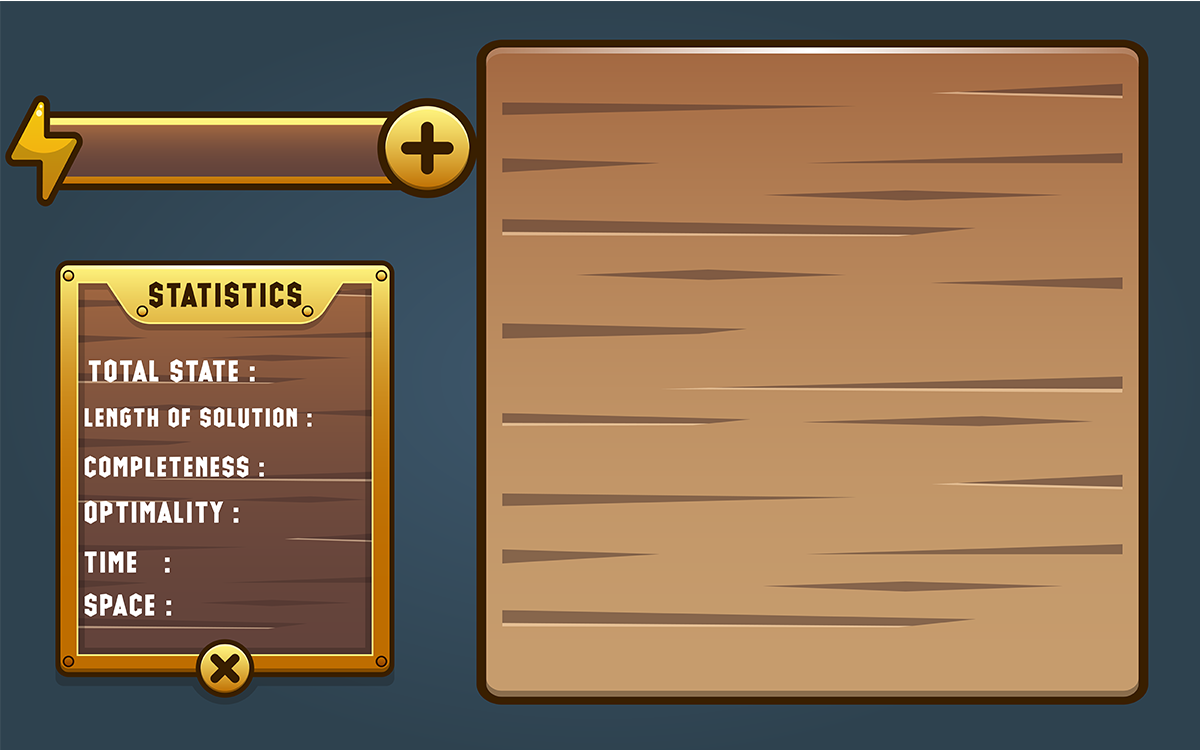
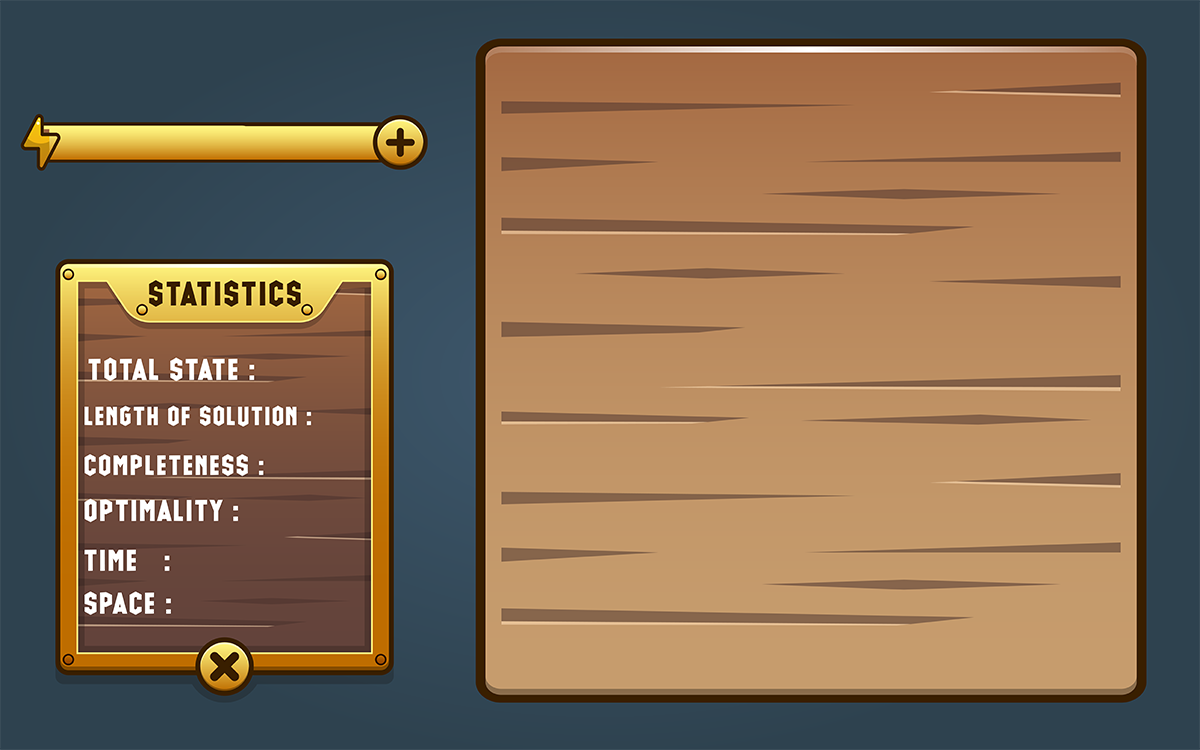
Final 3

diff --git a/Code/PyGameWind.py b/Code/PyGameWind.py
@@ -44,7 +44,9 @@ lengthof_selution=0
 total_state=0
 complet="NO"
 optemal="YES"
+Algo_Name="uniform_cost_search"
 Ospace=10
+TEXT_COL = (69, 43, 6)
 
 ansA = []
 #-------------------
@@ -165,6 +167,9 @@ def display_Algo():
 
       text_DFS_Time=Font_Main.render(str(total_state)+" ",False,'White')
       screen.blit(text_DFS_Time,(265,355)) 
+      
+      text_Algo=Font_Main.render(str(Algo_Name),False,TEXT_COL)
+      screen.blit(text_Algo,(100,128))
 
       pygame.display.update()
       pygame.time.delay(1200)
@@ -206,7 +211,7 @@ pygame.display.set_caption("Main Menu")
 game_paused = False
 menu_state = "main"
 
-TEXT_COL = (255, 255, 255)
+TEXT_COL = (69, 43, 6)
 
 Font_Main=pygame.font.Font('Font\\Glue Gun.otf', 30)
 
@@ -401,6 +406,7 @@ while run:
         # 
          complet="NO"
          optemal="NO"
+         Algo_Name="Depth First Search"
          Ospace=math.trunc(total_state*400/1024)
          display_Algo()  
          pygame.time.delay(1500)
@@ -419,7 +425,7 @@ while run:
          elapsed_time_ms = (end_time - start_time) * 1000
          elapsed_time_m=math.trunc(elapsed_time_ms)          
          lengthof_selution= math.trunc (len(ansA)/3)
-         
+         Algo_Name="a star    algorithm"
          complet="YES"
          optemal="YES"
          Ospace=math.trunc(total_state*400/1024)
@@ -438,7 +444,7 @@ while run:
          elapsed_time_ms = (end_time - start_time) * 1000
          elapsed_time_m=math.trunc(elapsed_time_ms)          
          lengthof_selution= math.trunc (len(ansA)/3)
-         
+         Algo_Name="Breadth First Search"
          complet="YES"
          optemal="YES"
          Ospace=math.trunc(total_state*400/1024)
@@ -458,7 +464,7 @@ while run:
          elapsed_time_ms = (end_time - start_time) * 1000
          elapsed_time_m=math.trunc(elapsed_time_ms)          
          lengthof_selution= math.trunc (len(ansA)/3)
-         
+         Algo_Name="depth limit search"
          complet="NO"
          optemal="NO"
          Ospace=math.trunc(total_state*400/1024)
@@ -477,9 +483,9 @@ while run:
          elapsed_time_ms = (end_time - start_time) * 1000
          elapsed_time_m=math.trunc(elapsed_time_ms)          
          lengthof_selution= math.trunc (len(ansA)/3)
-         
-         complet=" "
-         optemal=" "
+         Algo_Name="greedy best first"
+         complet="NO"
+         optemal="No"
          Ospace=math.trunc(total_state*400/1024)
          display_Algo()
          pygame.time.delay(1500)
@@ -496,7 +502,7 @@ while run:
          elapsed_time_ms = (end_time - start_time) * 1000
          elapsed_time_m=math.trunc(elapsed_time_ms)          
          lengthof_selution= math.trunc (len(ansA)/3)
-         
+         Algo_Name="itirative depth limit"
          complet="YES"
          optemal="YES"
          Ospace=math.trunc(total_state*400/1024)
@@ -515,7 +521,7 @@ while run:
          elapsed_time_ms = (end_time - start_time) * 1000
          elapsed_time_m=math.trunc(elapsed_time_ms)          
          lengthof_selution= math.trunc (len(ansA)/3)
-         
+         Algo_Name="uniform cost search"
          complet="YES"
          optemal="YES"
          Ospace=math.trunc(total_state*400/1024)
